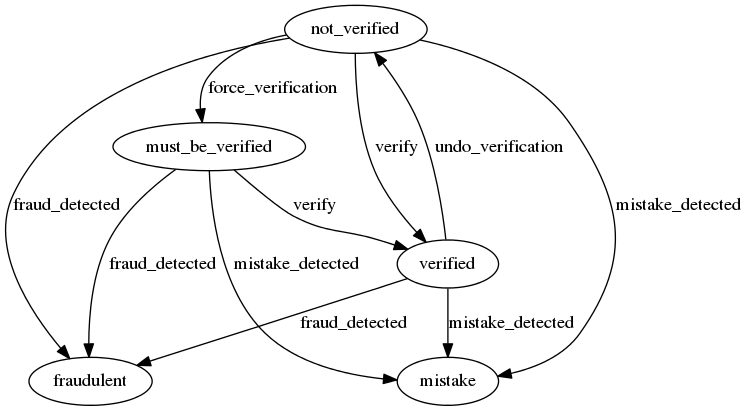
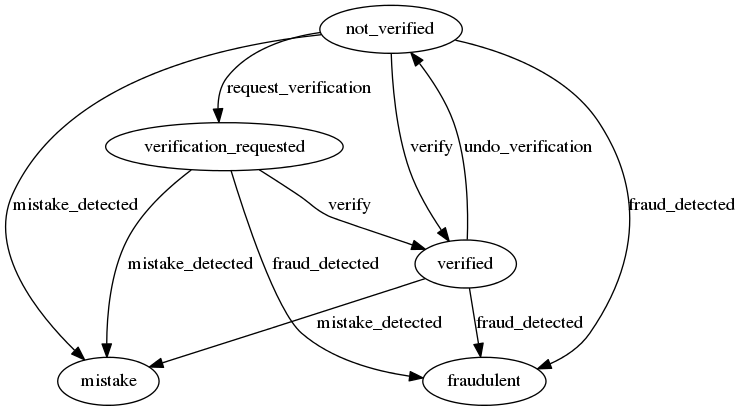
Cancellations views (#154)
* Improved random queries

* Added jobs tables to reseed task

* Verifications state machine diagram updated

* Improved procedures showing, including new views for cancellation

diff --git a/db/seeds/payments.rb b/db/seeds/payments.rb
@@ -6,10 +6,6 @@ require "iban_bic/random"
 
 admins = Admin.where role: [:finances]
 
-def random_people
-  Person.where("created_at < ?", Time.zone.now).order("RANDOM()")
-end
-
 def create_order(person, credit_card, campaign)
   PaperTrail.request.whodunnit = person
   payment_method = person.payment_methods.where(type: "PaymentMethods::#{credit_card ? "CreditCard" : "DirectDebit"}").sample
@@ -45,13 +41,13 @@ campaigns = (1..10).map do |i|
 end
 
 23.times do
-  # create 10 direct debit payment methods and orders
-  orders = random_people.limit(10).map do |person|
+  # create 5 direct debit payment methods and orders
+  orders = random_people.limit(5).map do |person|
     create_order person, false, campaigns.sample
   end
 
-  # create 10 direct credit card methods and orders
-  orders2 = random_people.limit(10).map do |person|
+  # create 5 direct credit card methods and orders
+  orders2 = random_people.limit(5).map do |person|
     create_order person, true, campaigns.sample
   end
 
@@ -65,13 +61,13 @@ end
   Timecop.travel 1.month.from_now
 end
 
-# create 10 direct debit payment methods and orders
-random_people.limit(10).map do |person|
+# create 5 direct debit payment methods and orders
+random_people.limit(5).map do |person|
   create_order person, false, campaigns.sample
 end
 
-# create 10 direct credit card methods and orders
-random_people.limit(10).map do |person|
+# create 5 direct credit card methods and orders
+random_people.limit(5).map do |person|
   create_order person, true, campaigns.sample
 end
 

diff --git a/db/seeds/procedures.rb b/db/seeds/procedures.rb
@@ -32,7 +32,7 @@ Procedure.all.each do |registration|
 end
 
 # create 10 processed document verifications
-Person.enabled.not_verified.order("RANDOM()").limit(10).each do |person|
+random_people.enabled.not_verified.limit(10).each do |person|
   Timecop.freeze Faker::Time.between(person.created_at, 3.days.ago(real_now), :between)
   PaperTrail.request.whodunnit = person
 
@@ -64,7 +64,7 @@ Person.enabled.not_verified.order("RANDOM()").limit(10).each do |person|
 end
 
 # create 15 unprocessed document verifications
-Person.enabled.not_verified.order("RANDOM()").limit(10).each do |person|
+random_people.enabled.not_verified.limit(10).each do |person|
   Timecop.freeze Faker::Time.between(3.days.ago(real_now), 1.day.ago(real_now), :between)
   PaperTrail.request.whodunnit = person
   document_verification = Procedures::DocumentVerification.create!(person: person,
@@ -75,7 +75,7 @@ Person.enabled.not_verified.order("RANDOM()").limit(10).each do |person|
 end
 
 # create 5 issues for document verifications
-Procedures::DocumentVerification.pending.order("RANDOM()").limit(5).each do |document_verification|
+random_procedures(Procedures::DocumentVerification).pending.limit(5).each do |document_verification|
   Timecop.freeze Faker::Time.between(document_verification.created_at, real_now, :between)
   admin = admins.sample
   PaperTrail.request.whodunnit = admin

diff --git a/db/seeds/cancellations.rb b/db/seeds/cancellations.rb
@@ -7,7 +7,7 @@ admins = Admin.where role: [:lopd, :lopd_help]
 real_now = Time.zone.now
 
 # create 10 cancellation procedures
-Person.where.not(id: admins.pluck(:person_id)).order("RANDOM()").limit(10).each do |person|
+random_people.where.not(id: admins.pluck(:person_id)).limit(10).each do |person|
   Timecop.freeze Faker::Time.between(3.days.ago(real_now), 1.day.ago(real_now), :between)
   PaperTrail.request.whodunnit = person
   cancellation = Procedures::Cancellation.create!(person: person,

diff --git a/app/decorators/procedure_decorator.rb b/app/decorators/procedure_decorator.rb
@@ -80,7 +80,7 @@ class ProcedureDecorator < ApplicationDecorator
 
   def processed_person
     return nil unless processed?
-    @processed_person ||= person.paper_trail.version_at(processed_at, dup: true)&.decorate(context: context)
+    @processed_person ||= person.paper_trail.version_at(processed_at - (1 / 1000.0).second, dup: true)&.decorate(context: context)
   end
 
   def processed_person_classed_changeset

diff --git a/db/seeds/random.rb b/db/seeds/random.rb
@@ -1,0 +1,9 @@
+# frozen_string_literal: true
+
+def random_people
+  Person.where("created_at < ?", Time.zone.now).order(Arel.sql("RANDOM()"))
+end
+
+def random_procedures(type = Procedure)
+  type.where("created_at < ?", Time.zone.now).order(Arel.sql("RANDOM()"))
+end

diff --git a/db/seeds/people.rb b/db/seeds/people.rb
@@ -89,7 +89,7 @@ Timecop.travel 1.month.from_now
 end
 
 # create some duplicated person procedures
-Procedure.order("RANDOM()").limit(3).each do |procedure|
+random_procedures.limit(3).each do |procedure|
   register_person(copy_from_procedure: procedure)
 end
 

diff --git a/db/seeds.rb b/db/seeds.rb
@@ -13,6 +13,7 @@ return if Rails.env.production?
 
 Rails.logger = Logger.new(STDOUT)
 
+require "random"
 require "people"
 require "procedures"
 require "payments"
